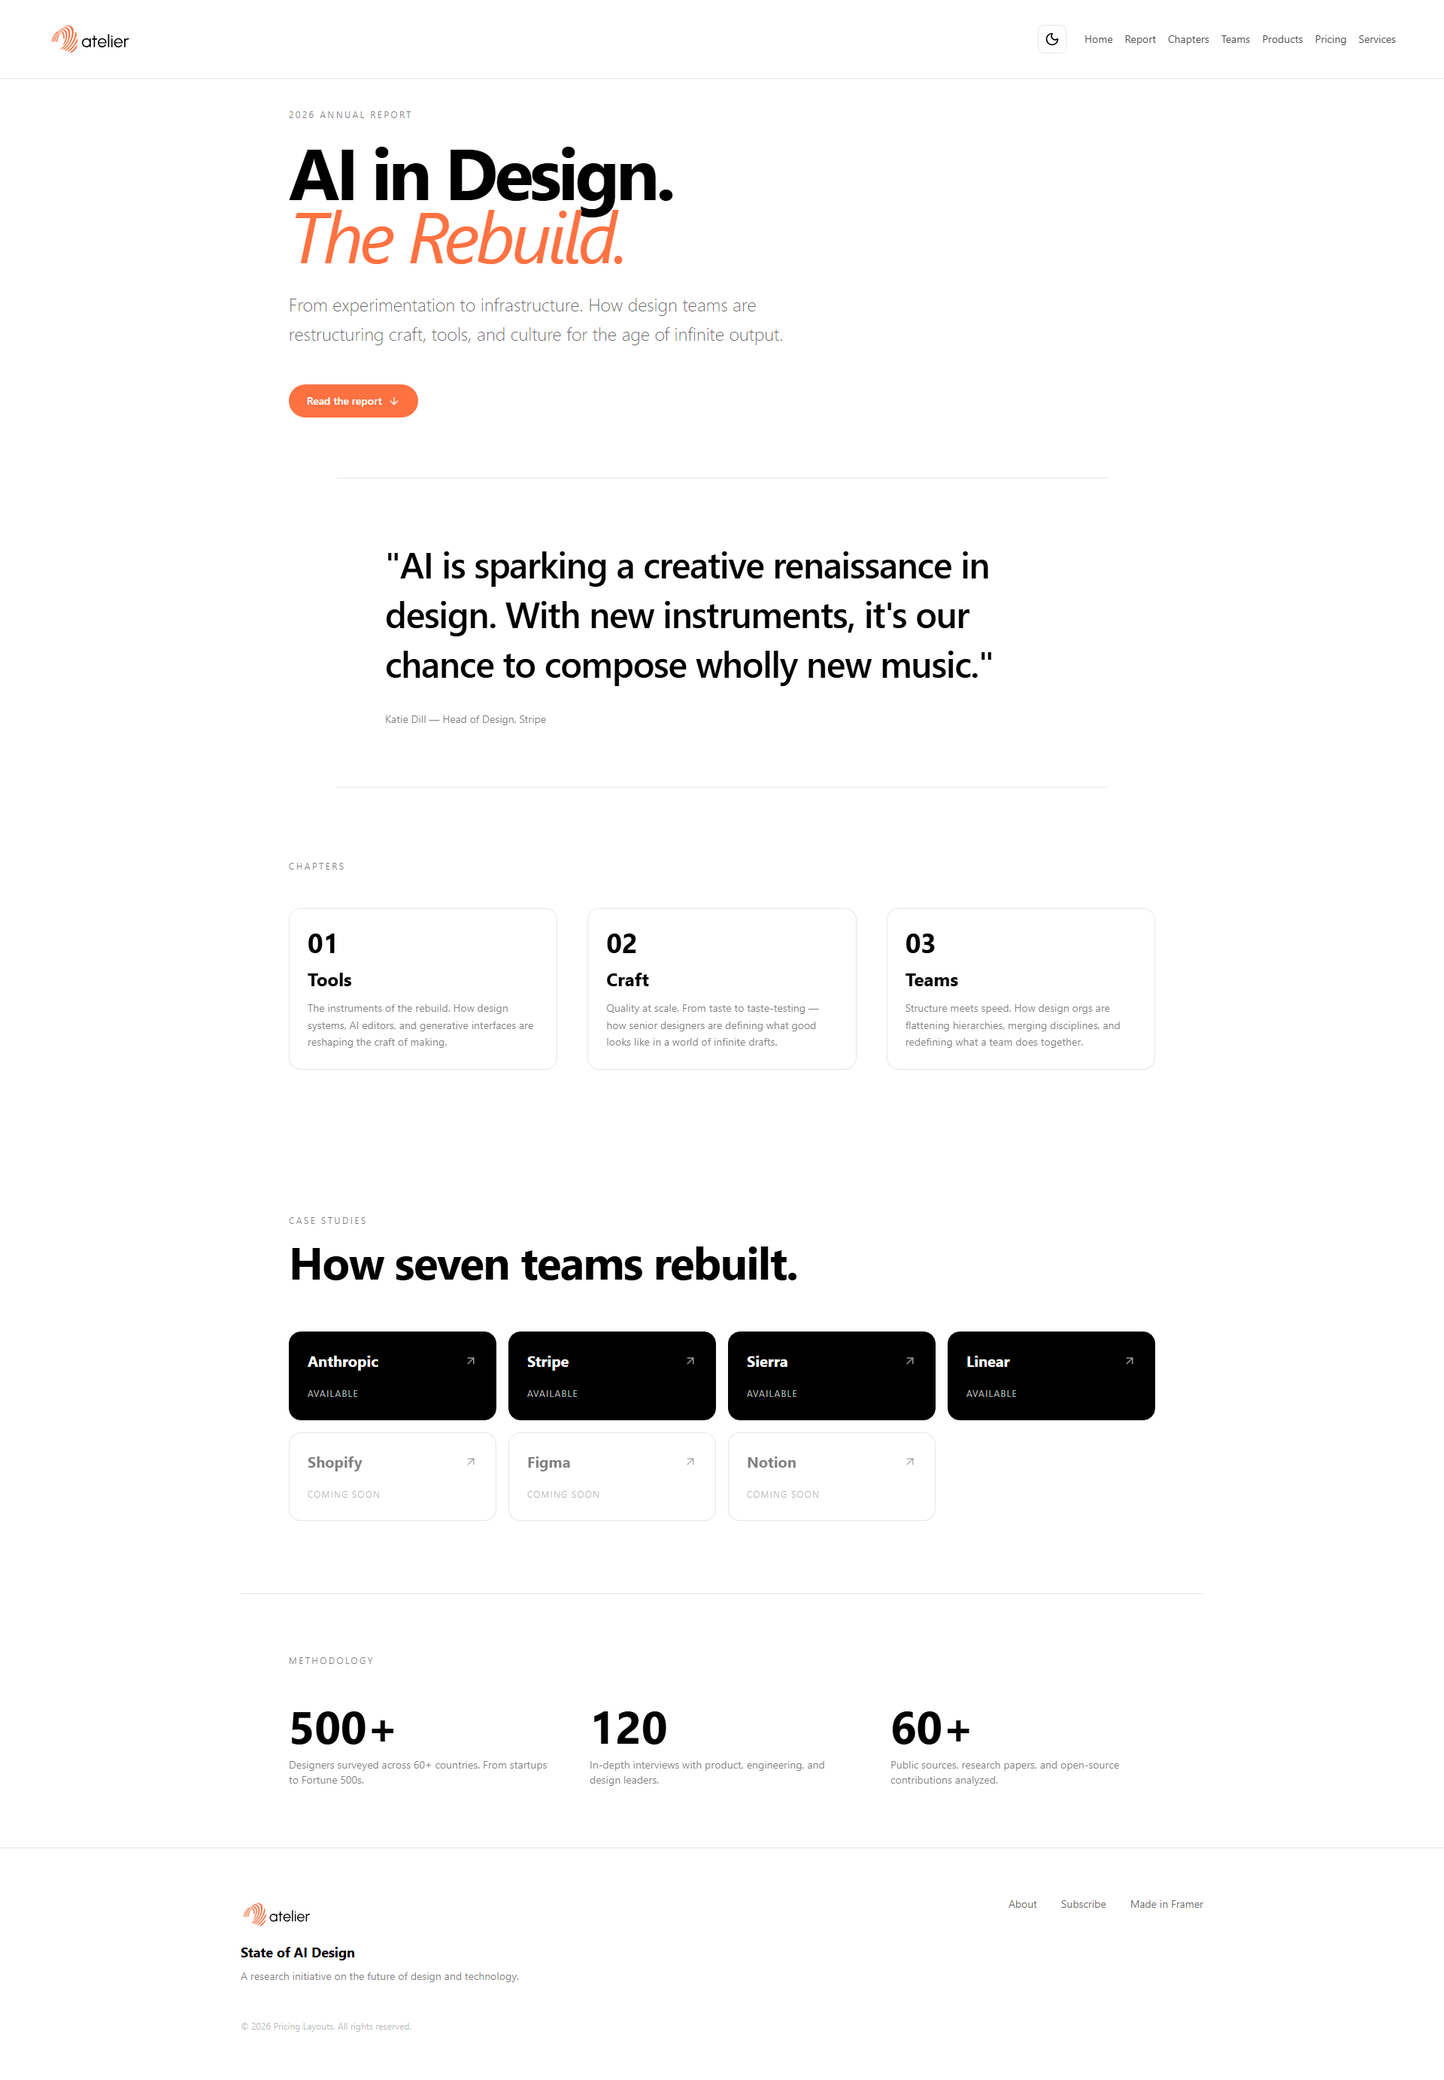
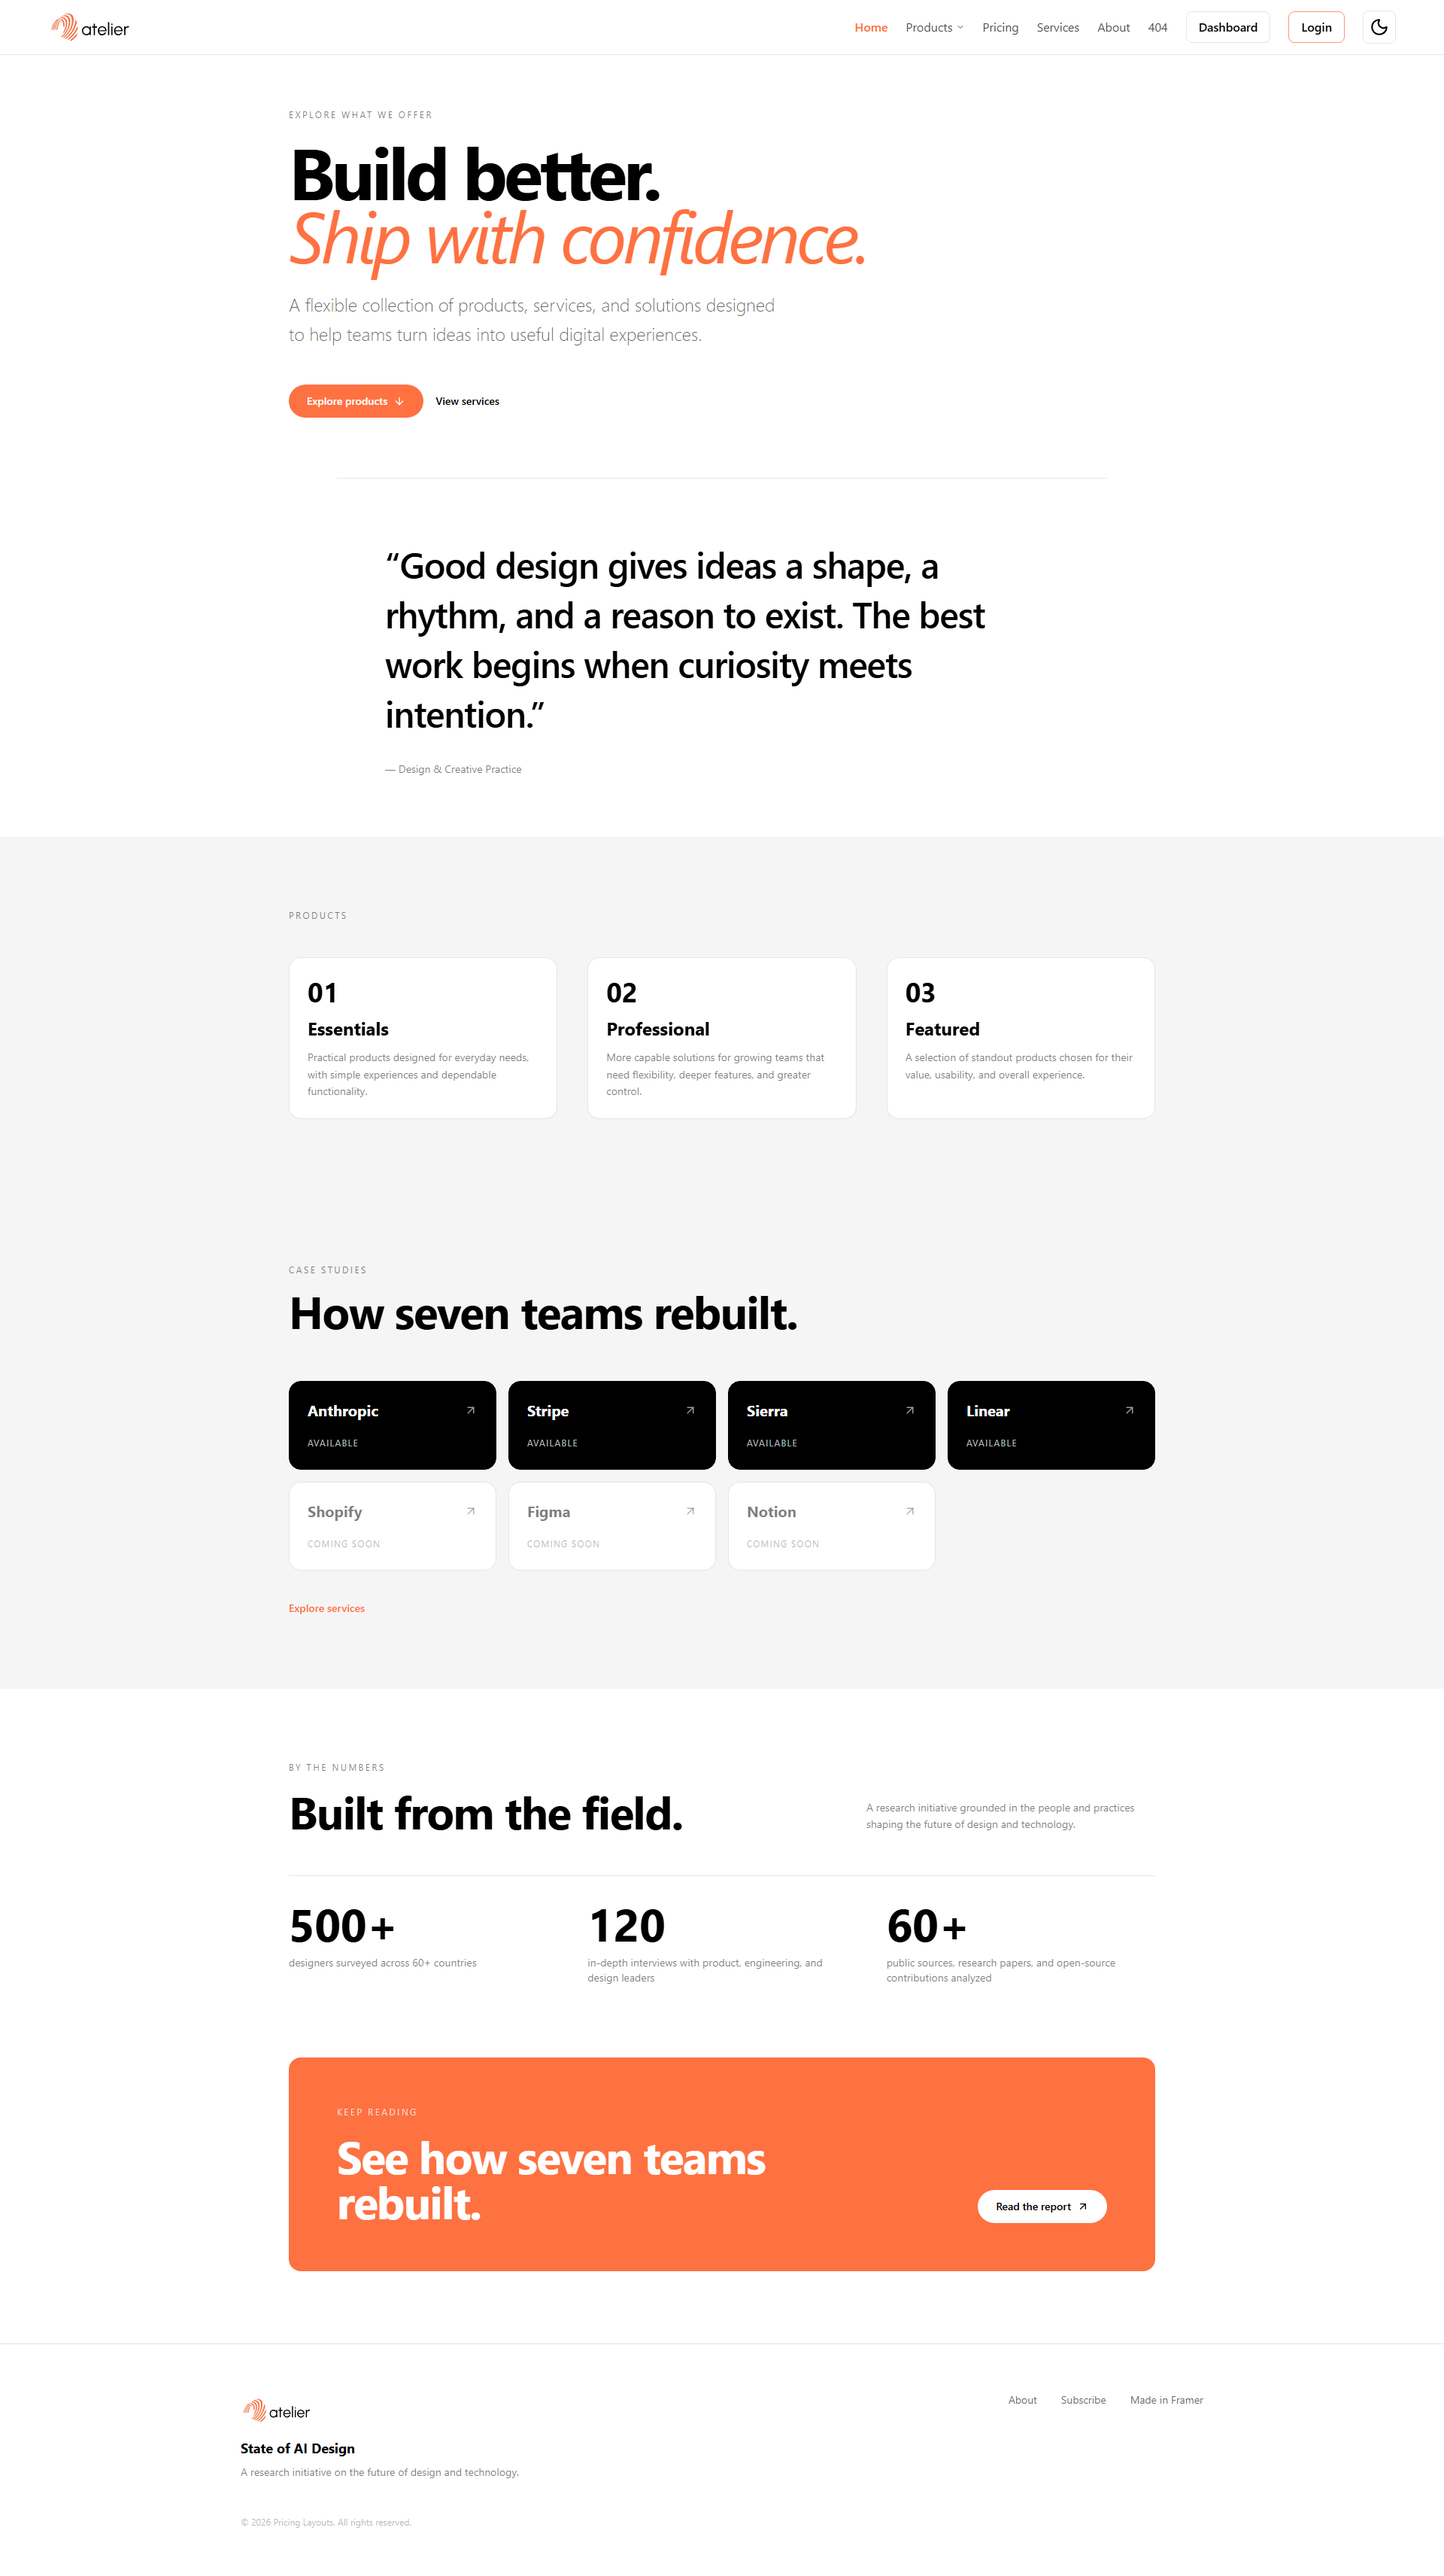
fix: preview md

diff --git a/src/components/Footer.jsx b/src/components/Footer.jsx
@@ -6,7 +6,7 @@ export default function Footer({ page }) {
 
   const content = {
     landing: {
-      title: "State of AI Design",
+      title: "Future of Design",
       subtitle: "A research initiative on the future of design and technology.",
     },
     product: {
@@ -48,7 +48,7 @@ export default function Footer({ page }) {
         </div>
       </div>
       <p className="text-xs text-primary-black/30 dark:text-primary-white/30 mt-12 md:max-w-7xl mx-auto">
-        © 2026 Pricing Layouts. All rights reserved.
+        © 2026 Atelier Layouts. All rights reserved.
       </p>
     </footer>
   );
